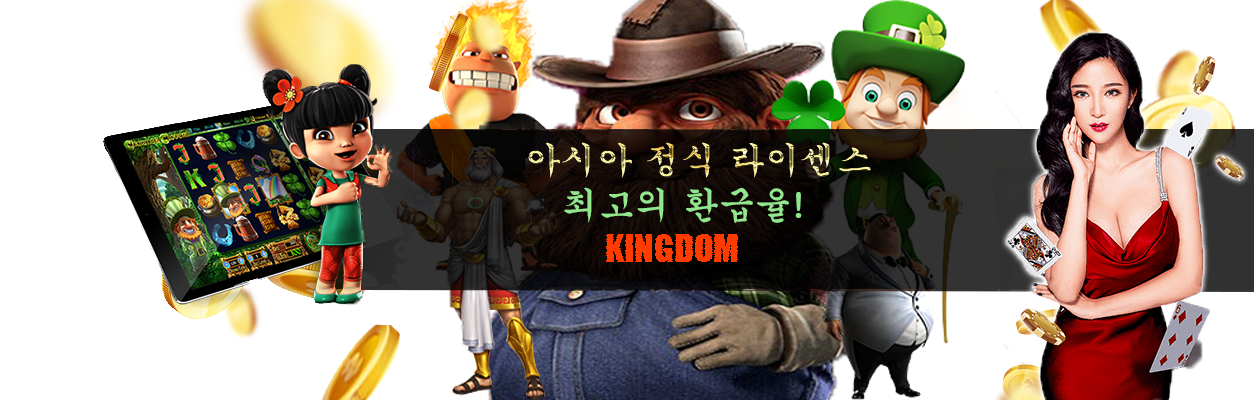
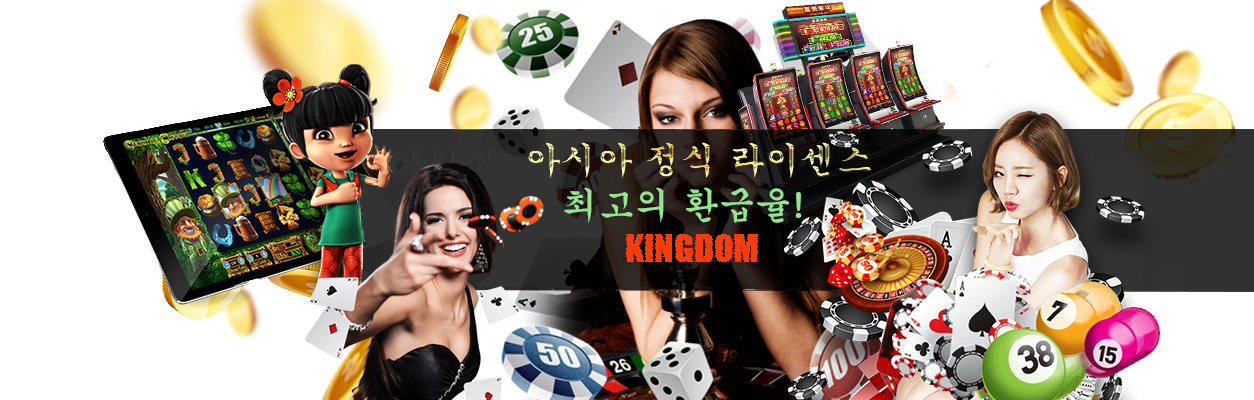
update kakao design for kingdom

diff --git a/public/frontend/Kakao/css/layout.css b/public/frontend/Kakao/css/layout.css
@@ -527,7 +527,8 @@
     width: 100%;
     text-align: center;
     padding: 40px 0 60px 0;
-    color: #3a3a3a
+    color: #3a3a3a;
+    background-color: #000;
 }
 
 /*-------------------------------------------------------------------------------------*
@@ -552,14 +553,12 @@
     width: 100%;
     height: 392px;
     float: left;
-    background: url(/frontend/Kakao/images/visual_bg.jpg) center top no-repeat
+    /* background: url(/frontend/Kakao/images/visual_bg.jpg) center top no-repeat */
 }
 
 .visual {
     width: 1920px;
     position: absolute;
-    left: 50%;
-    margin-left: -960px;
 }
 
 .jack_wrap {

diff --git a/public/frontend/Kakao/css/custom.css b/public/frontend/Kakao/css/custom.css
@@ -1,9 +1,8 @@
 /* ysk ìŠ¬ë¼ì´ë“œ ì¢Œí‘œ ê´€ë ¨ */
 
 .demo-2 .sl-slider-wrapper {
-    width: 1170px;
+    width: 100%;
     height: 392px;
-    overflow: hidden;
     position: relative;
 }
 
@@ -41,8 +40,7 @@
     -webkit-box-sizing: content-box;
     -moz-box-sizing: content-box;
     box-sizing: content-box;
-    position: absolute;
-    width: 1170px;
+    width: 100%;
     height: 392px;
     background-repeat: no-repeat;
     background-position: top center;

diff --git a/public/frontend/Kakao/css/common.css b/public/frontend/Kakao/css/common.css
@@ -22,7 +22,9 @@ body {
     min-width: 1480px;
     overflow-y: scroll;
     -webkit-overflow-scrolling: touch;
-    background: #000000
+    /* background: #000000 */
+    background-size: cover;
+    background-image: url('/frontend/Kakao/images/body_bg.jpg');
 }
 
 td {

diff --git a/resources/views/frontend/Kakao/layouts/app.blade.php b/resources/views/frontend/Kakao/layouts/app.blade.php
@@ -176,7 +176,6 @@
 
       body{
         color: #FFC107;
-        background-color: #000;
       }
 
       .body{
@@ -327,7 +326,7 @@
               </div>
               <div class="container demo-2">
                 <div id="slider" class="sl-slider-wrapper">
-                  <div class="sl-slider" style="width: 1170px; height: 392px">
+                  <div class="sl-slider" style="width: 100%; height: 392px">
                     <div class="sl-slides-wrapper">
                       <div
                         class="sl-slide sl-slide-horizontal"
@@ -340,7 +339,7 @@
                       >
                         <div
                           class="sl-content-wrapper"
-                          style="width: 1170px; height: 392px"
+                          style="width: 100%; height: 392px"
                         >
                           <div class="sl-content">
                             <div class="sl-slide-inner">
